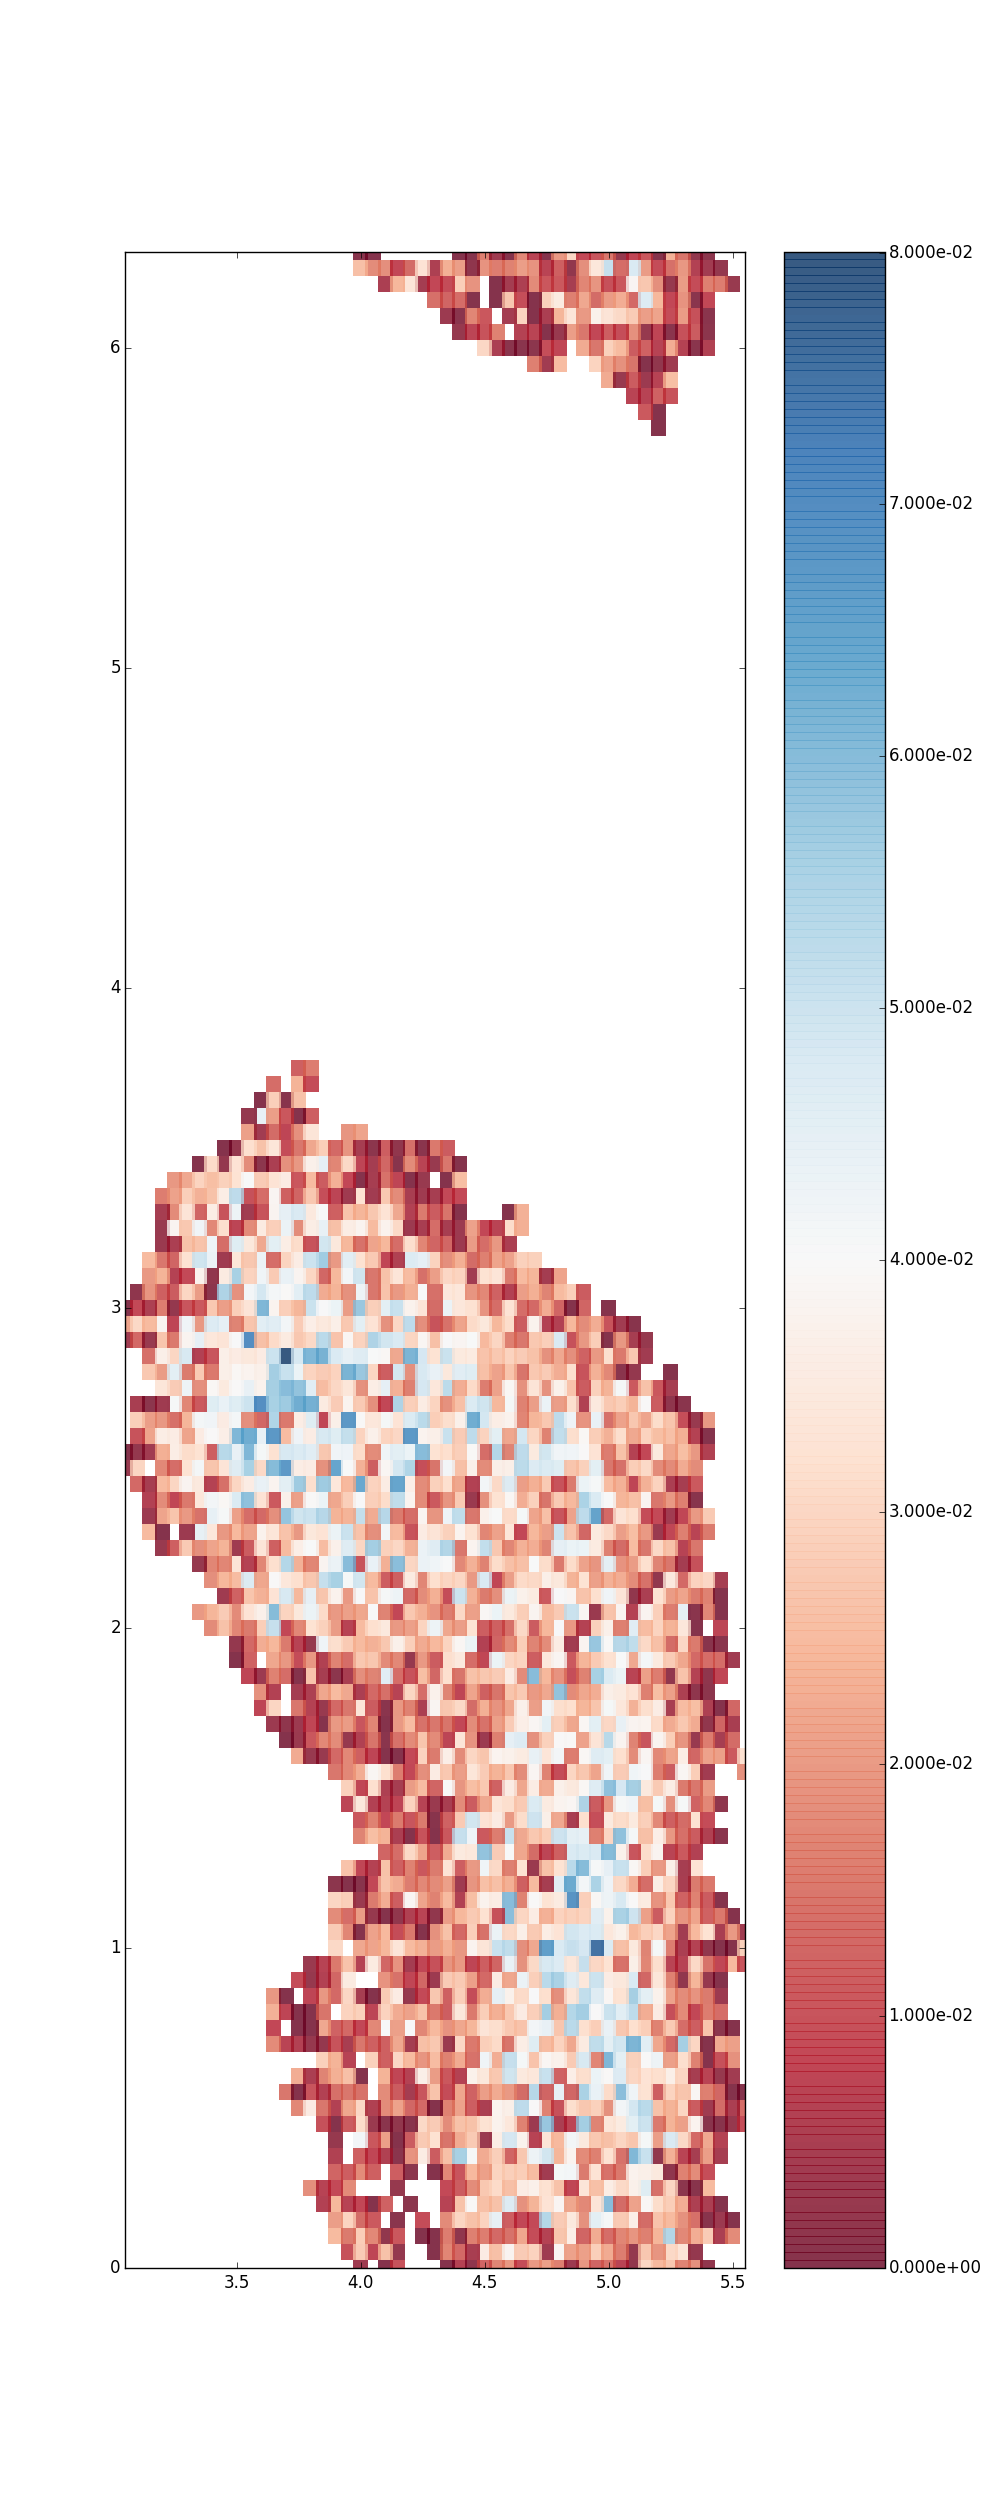
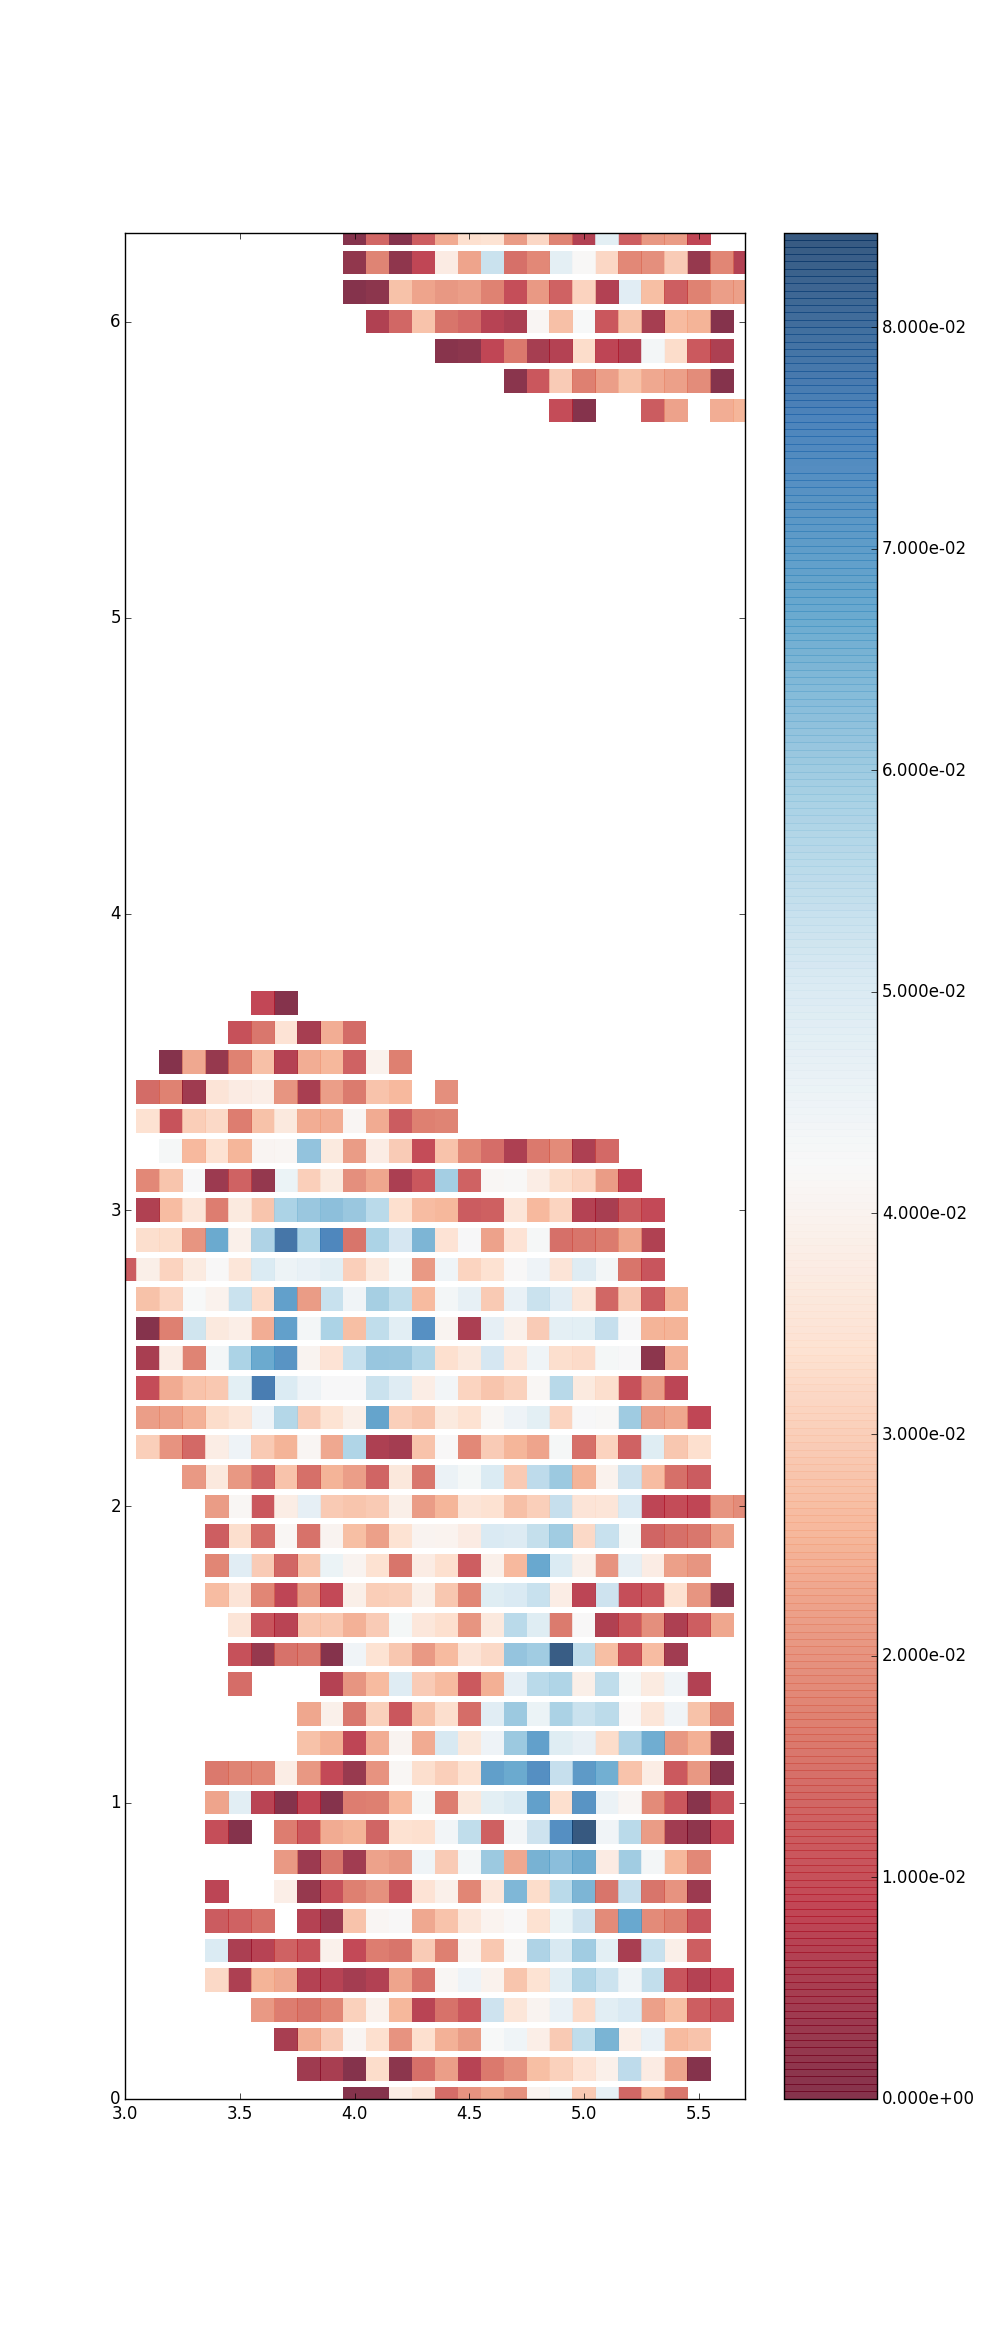
mock_sampling from actual MD csv

diff --git a/MD_unconstrained/PES_plotting.py b/MD_unconstrained/PES_plotting.py
@@ -1,0 +1,132 @@
+from __future__ import print_function, division
+
+import scipy as sp
+from matplotlib import pyplot as plt
+from matplotlib import cm
+import scipy.spatial.distance as spdist
+
+
+class Plot_energy_n_point:
+    def __init__(self, ax, mlmodel, current_point):
+        self.ax = ax
+        self.mlmodel = mlmodel
+        x = y = sp.linspace(0,2*sp.pi, 64)
+        self.X, self.Y = sp.meshgrid(x, y)
+        self.gridpts = sp.vstack((self.X.ravel(), self.Y.ravel())).T
+        zmin, zmax = mlmodel.y.min() - 0.0, mlmodel.y.max() + 0.0
+        
+        Z = self.mlmodel.predict(self.gridpts)
+        # Z[Z > zmax] = zmax
+        # Z[Z < zmin] = zmin
+        Z = Z.reshape(self.X.shape)
+        self.meshplot = ax.pcolormesh(self.X, self.Y, Z, cmap = cm.hot, alpha = 0.8,
+                                      edgecolors='None', vmax = 0.) #, vmin = -1., rasterized=True)
+        
+        self.scatterplot = ax.scatter(current_point[0], current_point[1], marker='h', 
+                                      s = 400, c = 'g', alpha = 0.5)
+        
+        self.ax.set_xlim(x.min(), x.max())
+        self.ax.set_ylim(y.min(), y.max())
+        self.ax.set_title('ML Prediction')
+        self.ax.set_xlabel(r'$\phi$')
+        self.ax.set_ylabel(r'$\psi$')
+        
+        
+    def update_current_point(self, current_point):
+        self.scatterplot.set_offsets(current_point.ravel())
+        return self
+        
+    
+    def update_prediction(self):
+        # zmin, zmax = self.mlmodel.y.min() - 0.0, self.mlmodel.y.max() + 0.0
+        distances = spdist.cdist(self.gridpts, self.mlmodel.X_fit_)
+        mask = (distances < 0.4)
+        mask = map(any, mask)
+        idx = sp.where(mask)[0]
+        # white-ish background
+        Z = sp.zeros(len(self.gridpts)) # self.mlmodel.y.mean()* sp.ones(len(self.gridpts))
+        Z[idx] = self.mlmodel.predict(self.gridpts[idx])
+        # Z[Z > zmax] = zmax
+        # Z[Z < zmin] = zmin
+        Z = Z.reshape(self.X.shape)
+        self.meshplot.set_array(Z[:-1,:-1].ravel())
+        return self
+        
+        
+class Plot_datapts:
+    def __init__(self, ax, mlmodel):
+        self.ax = ax
+        self.mlmodel = mlmodel
+        self.ylim = self.xlim = (0, 2*sp.pi)
+        self.scatterplot = ax.scatter(self.mlmodel.X_fit_[:,0], self.mlmodel.X_fit_[:,1], 
+                                      c = self.mlmodel.y, marker = 'o', s = 50, 
+                                      cmap = cm.hot, alpha = 0.8, edgecolors='none') #, vmin = -1., vmax = 0.5)
+        self.ax.set_xlim(self.xlim)
+        self.ax.set_ylim(self.ylim)
+        self.ax.set_title('Data Points')
+        self.ax.set_xlabel(r'$\phi$')
+        self.ax.set_ylabel(r'$\psi$')
+        
+        
+    def update(self):
+        xy = self.mlmodel.X_fit_
+        z = self.mlmodel.y.ravel()
+        self.scatterplot.set_offsets(xy)
+        self.scatterplot.set_array(z)
+        return self
+
+
+# def draw_2Dreconstruction(ax, mlmodel, Xnew, X_grid):
+#     
+#     ax0, ax1 = ax
+#     y_grid = mlmodel.predict(X_grid)
+#     
+#     y_grid[y_grid > mlmodel.y.max() + 0.2] = mlmodel.y.max() + 0.2
+#     y_grid[y_grid < mlmodel.y.min() - 0.2] = mlmodel.y.min() - 0.2
+#     
+#     ax0.clear()
+#     ax0.scatter(mlmodel.X_fit_[:,0], mlmodel.X_fit_[:,1], marker = 'o', s = 50, c = mlmodel.y, 
+#                 cmap = cm.RdBu, alpha = .5, edgecolors='none')    
+#     ax1.clear()
+#     ax1.scatter(X_grid[:,0], X_grid[:,1], s = 200, c = y_grid, 
+#                 cmap = cm.RdBu, alpha = 1, edgecolors='none', marker='s')
+#     ax1.scatter(Xnew[0], Xnew[1], marker='h', s = 400, c = 'g', alpha = 0.5)
+#     
+#     gradnew = mlmodel.predict_gradient(sp.atleast_2d(Xnew)).ravel()
+#     gradnew /= LA.norm(gradnew)
+#     ax1.arrow(Xnew[0], Xnew[1], gradnew[0], gradnew[1], head_width=0.05, head_length=0.1, fc='k', ec='k')
+# 
+#     ax0.set_title('Data Points')
+#     ax1.set_title('ML Prediction')
+#     for axx in [ax0, ax1]:
+#         axx.set_xlabel(r'$\phi$')
+#         axx.set_ylabel(r'$\psi$')
+#         axx.set_xlim(0, 2*sp.pi)
+#         axx.set_ylim(0, 2*sp.pi)
+# 
+# 
+# def draw_3Dreconstruction(fig, ax, mlmodel, X_grid):
+#     
+#     y_grid = mlmodel.predict(X_grid)
+#     y_grid[y_grid > mlmodel.y.max() + 0.2] = mlmodel.y.max() + 0.2
+#     y_grid[y_grid < mlmodel.y.min() - 0.2] = mlmodel.y.min() - 0.2
+#     ax.clear()
+#     
+#     X0, X1 = sp.unique(X_grid[:,0]), sp.unique(X_grid[:,1])
+#     X0, X1 = sp.meshgrid(X0, X1)
+#     y_grid = y_grid.reshape(X0.shape)
+#     surf = ax.plot_surface(X0, X1, y_grid, rstride=1, cstride=1, cmap=cm.RdBu,
+#                            linewidth=0, antialiased=False)
+#     ax.set_xlabel(r'$\phi$')
+#     ax.set_ylabel(r'$\psi$')
+#     ax.set_title('ML Prediction')
+#     ax.zaxis.set_major_formatter(FormatStrFormatter('%.02e'))
+#     # fig.colorbar(surf, shrink=0.5, aspect=5)
+#     ax.set_xlim(0, 2*sp.pi)
+#     ax.set_ylim(0, 2*sp.pi)
+# 
+# 
+# def Xplotgrid(Xmin, Xmax, n_features, n_pts):
+#     X_grid = [sp.linspace(Xmin[i], Xmax[i], n_pts) for i in range(n_features)]
+#     X_grid = sp.meshgrid(*X_grid)
+#     return sp.vstack([x.ravel() for x in X_grid]).reshape(n_features,-1).T 

diff --git a/MD_unconstrained/mock_sampling.py b/MD_unconstrained/mock_sampling.py
@@ -1,0 +1,126 @@
+#!/usr/bin/env python
+from __future__ import print_function, division
+
+import os
+import scipy as sp
+import scipy.linalg as LA
+import scipy.spatial.distance as sp_dist
+from ase import units
+from sklearn.kernel_ridge import KernelRidge
+# import pdb
+from matplotlib import pyplot as plt
+import PES_plotting as pl
+from time import time as get_time
+
+
+SAMPLE_WEIGHT = 1
+def round_vector(vec, precision = 0.05):
+    """
+    vec: array_like, type real
+    
+    precision: real, > 0
+    """
+    return ((vec + 0.5 * precision) / precision).astype('int') * precision 
+
+
+def update_model(colvars, mlmodel, grid_spacing, temperature, do_update=False):
+    # get actual forces and potential energy of configuration
+    ### ML IS HERE ###
+    if not (mlmodel is None and not do_update):
+        # Accumulate the new observation in the dataset
+        coarse_colvars = round_vector(colvars, precision=grid_spacing)
+        distance_from_data = sp_dist.cdist(
+            sp.atleast_2d(coarse_colvars), mlmodel.X_fit_).ravel()
+        # check if configuration has already occurred
+        if distance_from_data.min() == 0.0:
+            index = list(distance_from_data).index(0.0)
+            mlmodel.y[index] = - units.kB * temperature * sp.log(sp.exp(-mlmodel.y[index] / (units.kB * temperature)) + SAMPLE_WEIGHT)
+        else:
+            mlmodel.accumulate_data(coarse_colvars, - units.kB * temperature * sp.log(SAMPLE_WEIGHT))
+            cv = coarse_colvars.ravel()
+            xx = sp.linspace(cv[0] - 2*grid_spacing, cv[0] + 2*grid_spacing, 5)
+            yy = sp.linspace(cv[1] - 2*grid_spacing, cv[1] + 2*grid_spacing, 5)
+            XX, YY = sp.meshgrid(xx, yy)
+            near_bins = sp.vstack((XX.ravel(), YY.ravel())).T
+            distance_from_data = sp_dist.cdist(sp.atleast_2d(near_bins), mlmodel.X_fit_)
+            for distance, near_bin in zip(distance_from_data, near_bins):
+                if distance.min() > 0.:
+                    mlmodel.accumulate_data(near_bin, 0.)
+        if do_update:
+            # update ML potential with all the data contained in it.
+            mlmodel.update_fit()
+    return
+
+
+def main():
+    
+    T = 300.0 # Simulation temperature
+    dt = 1 * units.fs # MD timestep
+    nsteps = 1000000 # MD number of steps
+    lengthscale = 0.5 # KRR Gaussian width.
+    gamma = 1 / (2 * lengthscale**2)
+    grid_spacing = 0.1
+    mlmodel = KernelRidge(kernel='rbf', 
+                          gamma=gamma, gammaL = gamma/4, gammaU=2*gamma,
+                           alpha=1.0e-2, variable_noise=False, max_lhood=False)
+    anglerange = sp.arange(0, 2*sp.pi + grid_spacing, grid_spacing)
+    X_grid = sp.array([[sp.array([x,y]) for x in anglerange]
+                       for y in anglerange]).reshape((len(anglerange)**2, 2))
+                           
+    # Bootstrap from initial database? uncomment
+    data_MD = sp.loadtxt('phi_psi_pot_md300.csv')
+    colvars = data_MD[0,:2]
+    PotEng = data_MD[0,2]
+    KinEng = data_MD[0,3]
+    
+    # Prepare diagnostic visual effects.
+    plt.close('all')
+    plt.ion()
+    fig, ax = plt.subplots(1, 2, figsize=(24, 13))
+    
+    # Zero-timestep evaluation and data files setup.
+    print("START")
+    mlmodel.accumulate_data(round_vector(data_MD[0,:2], precision=grid_spacing), 0.)
+    print('Step %d | Energy per atom: Epot = %.3e eV  Ekin = %.3e eV (T = %3.0f K) Etot = %.7e eV' % (
+        0, PotEng/22, KinEng/22, KinEng / (22 * 1.5 * units.kB), PotEng + KinEng))
+
+    # MD Loop
+    for istep, line in enumerate(data_MD[:nsteps]):
+        colvars = line[:2]
+        PotEng = line[2]
+        KinEng = line[3]
+        # Flush Cholesky decomposition of K
+        if istep % 1000 == 0:
+            mlmodel.Cho_L = None
+            mlmodel.max_lhood = False
+        print("Dihedral angles | phi = %.3f, psi = %.3f " % (colvars[0], colvars[1]))
+        do_update = (istep % 1000 == 59)
+        t = get_time()
+        update_model(colvars, mlmodel, grid_spacing, T, do_update=do_update)        
+        if do_update and mlmodel.max_lhood:
+            mlmodel.max_lhood = False
+        print("TIMER 002 | %.3f" % (get_time() - t))
+
+        print('Step %d | Energy per atom: Epot = %.3e eV  Ekin = %.3e eV (T = %3.0f K) Etot = %.7e eV' % (
+            istep, PotEng/22, KinEng/22, KinEng / (22 * 1.5 * units.kB), PotEng + KinEng))
+
+        if istep % 1000 == 59:
+            t = get_time()
+            if 'datasetplot' not in locals():
+                datasetplot = pl.Plot_datapts(ax[0], mlmodel)
+            else:
+                datasetplot.update()
+            if hasattr(mlmodel, 'dual_coef_'):
+                if 'my2dplot' not in locals():
+                    my2dplot = pl.Plot_energy_n_point(ax[1], mlmodel, colvars.ravel())
+                else:
+                    my2dplot.update_prediction()
+                    my2dplot.update_current_point(colvars.ravel())
+            print("TIMER 003 | %.03f" % (get_time() - t))
+            t = get_time()
+            fig.canvas.draw()
+            print("TIMER 004 | %.03f" % (get_time() - t))    
+    return mlmodel
+
+if __name__ == '__main__':
+    ret = main()
